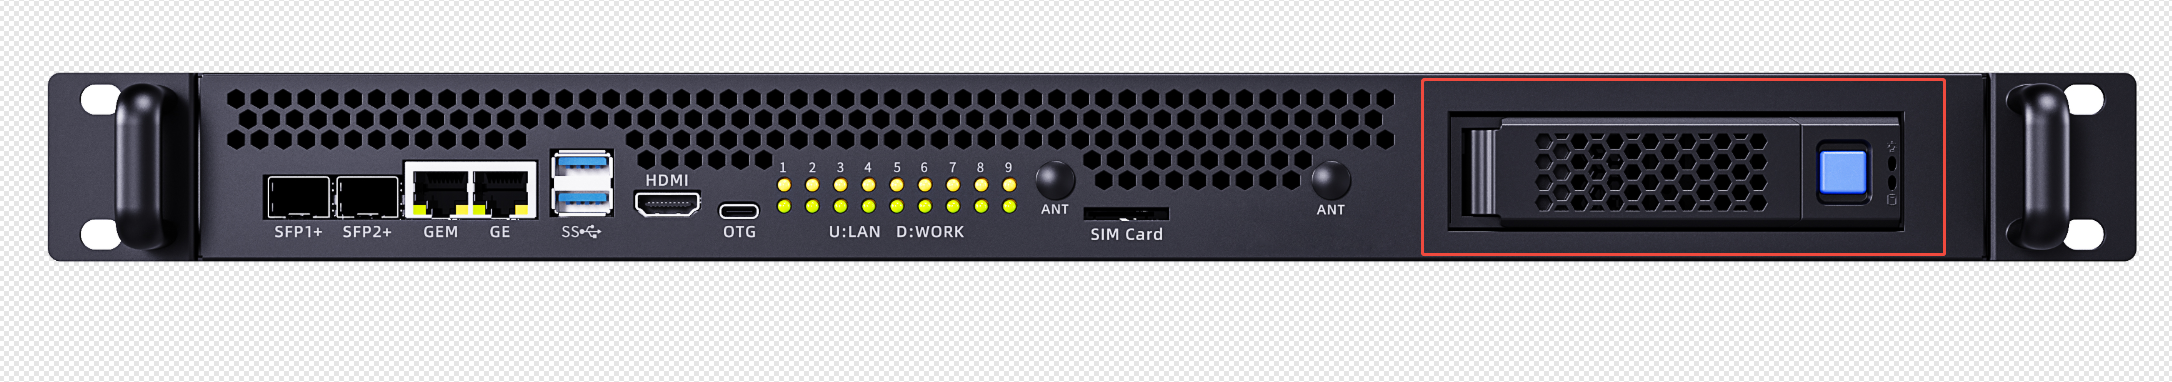
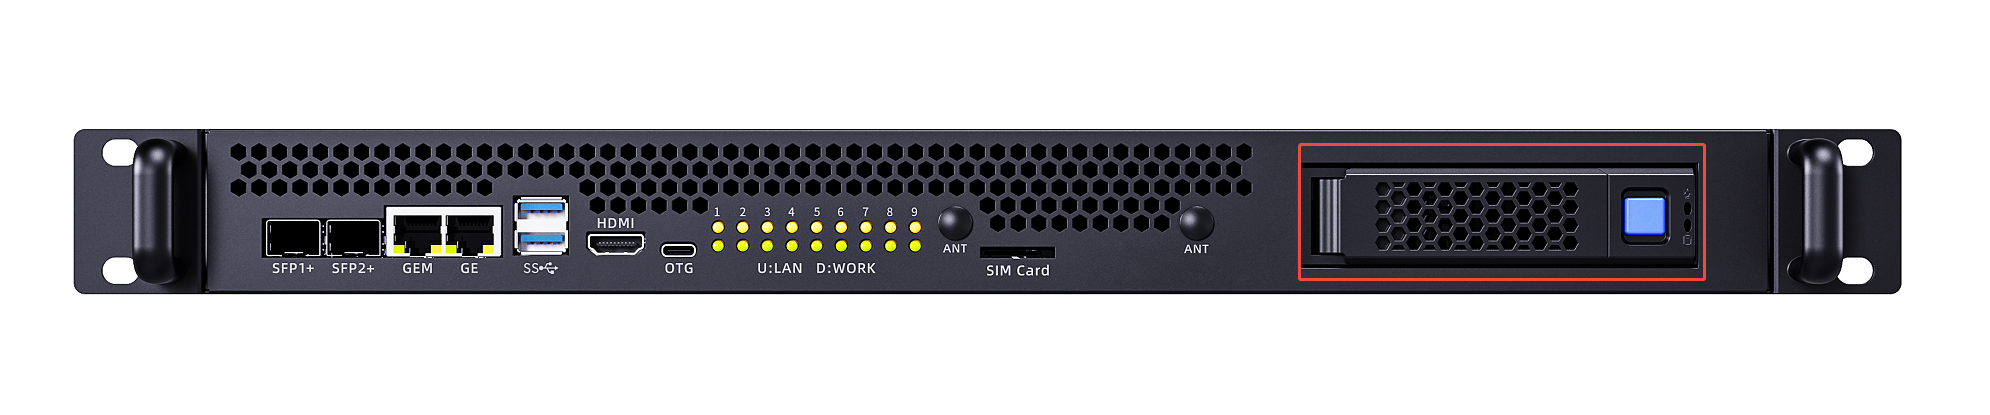
firefly products 73e96cd681608d3765940173d5635cfb80d89f0c

diff --git a/zh/服务器/CSA1-N8/specifications.md b/zh/服务器/CSA1-N8/specifications.md
@@ -1,22 +1,15 @@
 # 产品规格和组件
 
-## 技术规格
-环境规格
-
 ## 服务器规格
 
 | 指标项 | 规格 |
 | :--- | :--- |
 | **服务器形态** | 1U 机架式服务器 |
-| **计算节点型号** | 支持 10 路分布式计算节点 |
-| **显示接口** | 1080P VGA 接口 |
+| **计算节点型号** | 支持 8 路分布式计算节点 |
+| **显示接口** | 1080P HDMI 接口 |
 | **USB** | 2 个 USB 3.0 接口 |
-| **网络接口** | - 2 个 10Gbps SFP+ 共享网口<br/>- 2 个 10/100/1000Mbps RJ45 共享网口 |
-| **串行接口** | - 1 个 RS232 DB9 接口<br/>- 1 个 RS485 DB9 接口 |
-| **Console 接口** | 1 个用于调试的 RJ45 Console 接口 |
-| **灯和按键** | - 1 个 UID 按键灯<br/>- 1 个 POWER 按键灯<br/>- 10 个计算节点系统指示灯<br/>- 2 个 SFP+ 指示灯<br/>- 1 个交换机指示灯<br/>- 1 个 BMC 系统指示灯 |
-| **风扇** | 4 个冗余风扇 |
-| **电源** | 双路 550W AC 电源 |
+| **网络接口** | 2 × 10Gbps万兆网（SFP+）、2 × 千兆以太网（RJ45，管理网口 1 个，普通网口 1 个） |
+| **风扇** | 6 个冗余风扇 |
 | **系统管理** | - 适配 aBMC 管理系统（支持 Redfish、VNC、NTP、监控高级及虚拟媒体）<br/>- 1 个 10/100/1000Mbps RJ45 管理网口 |
 | **安全特性** | - 管理员密码<br/>- 故障告警<br/>- 应急 recovery 模式 |
 
@@ -24,24 +17,11 @@
 
 | 指标项 | 规格 |
 | :--- | :--- |
-| **服务器形态** | 1U 机架式服务器 |
-| **计算节点型号** | 支持 10 路分布式计算节点 |
-| **显示接口** | 1080P VGA 接口 |
-| **USB** | 2 个 USB 3.0 接口 |
-| **网络接口** | - 2 个 10Gbps SFP+ 共享网口<br/>- 2 个 10/100/1000Mbps RJ45 共享网口 |
-| **串行接口** | - 1 个 RS232 DB9 接口<br/>- 1 个 RS485 DB9 接口 |
-| **Console 接口** | 1 个用于调试的 RJ45 Console 接口 |
-| **灯和按键** | - 1 个 UID 按键灯<br/>- 1 个 POWER 按键灯<br/>-  10 个计算节点系统指示灯<br/>- 2 个 SFP+ 指示灯<br/>- 1 个交换机指示灯<br/>- 1 个 BMC 系统指示灯 |
-| **风扇** | 4 个冗余风扇 |
-| **电源** | 2 个单路 550W AC 电源 |
-| **系统管理** | - 适配 aBMC 管理系统（支持 Redfish、VNC、NTP、监控高级及虚拟媒体）<br/>- 1 个 10/100/1000Mbps RJ45 管理网口 |
-| **安全特性** | - 管理员密码<br/>-  故障告警<br/>-  应急 recovery 模式 |
 | **温度** | - 工作温度：5℃～40℃（41℉～104℉）<br/>-  存储温度（24H）：-40℃～+65℃<br/>-  存储温度（3个月以内）：-30℃～+60℃（-22℉～+140℉）<br/>-  存储温度（6个月以内）：-15℃～+45℃（5℉～113℉）<br/>-  存储温度（1年以内）：-10℃～+35℃（14℉～95℉）<br/>-  最大温度变化率：20℃（36℉）/小时、5℃（9℉）/15分钟 |
 | **相对湿度（RH，无冷凝）** | - 工作湿度：8%～90%<br/>-  存储湿度（3个月以内）：8%～85%<br/>-  存储湿度（6个月以内）：8%～80%<br/>-  存储湿度（1年以内）：20%～75%<br/>-  最大湿度变化率：20%/小时 |
 
 
-
-<Callout title="NTP 网络要求" type="info">
+<Callout title="硬盘存储时间要求" type="info">
 由于SSD硬盘和机械硬盘（包括NL-SAS、SAS、SATA）存储原理的限制，不能在下电状态下长期保存，若超过最长存储时间，可能导致数据丢失或者硬盘故障。在满足存储温度与存储湿度的条件下，硬盘的存储时间要求如下：
 * SSD硬盘最长存储时间：
     * 下电状态且未存储数据：12个月
@@ -50,17 +30,16 @@
     * 未打开包装或已打开包装且为下电状态：6个月
 最长存储时间是依据硬盘厂商提供的硬盘下电存放时间规格确定的。
 </Callout>
-
-
+ 
 
 ## 物理规格
 
 | 指标项 | 规格 |
 | :--- | :--- |
-| **尺寸（高×宽×深）** | 机箱：44.4 mm（1U）× 417.3 mm × 490 mm |
+| **尺寸（高×宽×深）** | 机箱：44.4mm (1U)× 417.3mm × 490.0mm |
 | **安装尺寸要求** | 可安装在满足 IEC 297 标准的通用机柜中：<br/>- 宽 19 英寸<br/>- 深 800 mm 及以上<br/><br/>滑道的安装要求如下：<br/>- 可伸缩滑道：机柜前后方孔条的距离范围为 543.5 mm ～ 848.5 mm |
-| **满配重量** | - 净重：6.7 kg<br/>- 包装材料重量：8.9 kg |
-| **能耗** | 整机因搭载的计算单元数量和种类不同，能耗存在差异。以下为参考值：<br/>- 典型能耗：300 W<br/>- 最大能耗：450 W |
+| **满配重量** | - 净重：6.7kg<br/>- 包装材料重量：8.9kg |
+| **能耗** | 整机因搭载的计算单元数量和种类不同，能耗存在差异。以下为参考值：<br/>- 待机能耗：150 W<br/>- 最大能耗：450 W |
 | **电源** | - 电源模块不支持热插拔<br/>- 服务器连接的外部电源空气开关电流规格推荐如下：<br/>&nbsp;&nbsp;- 交流电源：32 A<br/>&nbsp;&nbsp;- 直流电源：63 A<br/>- 电源功率应大于最大能耗，并保留不少于 50 W 的余量 |
 
 
@@ -68,47 +47,36 @@
 ### 拓扑示意图
 
 #### 硬件逻辑结构图
-图5为服务器内部的硬件逻辑结构图，清晰展示了子板、BMC、存储和内部网络交换机等硬件连接关系。表6为图5中的符号说明：
-| 符号 | 名称 | 说明 |
-| :--- | :--- | :--- |
-| Layer 2 switch | 内部二层交换机 | 不支持 VLAN 划分、网络聚合和 QoS 等功能 |
+| 符号 | 名称 |
+| :--- | :--- |
+| pci_net | 以太网卡（速度 1 Gbps） |
+| Layer 2 switch | 内部二层交换机 |
 
 ![perspective view](../../../servers_img/CSA1-N8/hw_logical_topology.png)
 
 #### 网络拓扑图
-根据硬件结构逻辑图可知，阵列式服务器中集成的ARM核心板与BMC是通过两个二层交换机实现网络互联的，
-
-![perspective view](../../../servers_img/CSA1-N8/default_network_topology.png)
+根据硬件结构逻辑图可知，阵列式服务器中集成的ARM核心板与BMC是通过一个二层交换机实现网络互联的，**具体的网络拓扑图联系工程师获取**。。
 
 ## 组件
 ### 前面板按键及指示灯
 
 | 标识 | 指示灯/按钮 | 状态说明 |
 | :--- | :--- | :--- |
-| 1-8,M | 计算节点状态指示灯 | - 绿色（常亮）：表示计算节点已经正常开机。<br/>- 熄灭：表示计算节点未上电。 |
-| 1-8,M | 网络状态指示灯 | - 黄色（闪烁）：表示子板正在通信。<br/>- 熄灭：子板未通信。 |
-| | OTG Type-C | 可使用 U 盘对 BMC 进行 OTG 升级。 |
-
-
+| 1-8,M | 计算节点状态指示灯和BMC状态指示灯 | - 绿色（常亮）：表示节点已经正常开机。<br/>- 熄灭：表示节点未上电。 |
+| | OTG USB（下方） | 可使用 U 盘对 BMC 进行 OTG 升级。 |
 
 ### 网络接口
 
 | 标识 | 接口名称 | 说明 |
 | :--- | :--- | :--- |
-| SFP+1 / SFP+2 | SFP+ 端口 | - 万兆光口默认速率为 10 Gbps 自适应 |
-| GE  | RJ45 | - 千兆以太网口，1000/100/10 Mbps 自适应。 |
-| GEM | RJ45 | - 用作 BMC 管理网络。<br/>- 1000/100/10 Mbps 自适应。 |
-
-> 表 8
-
+| SFP+1 / SFP+2 | SFP+ 端口 | - 万兆光口默认速率为 10 Gbps。<br/>- 如果是千兆网络的环境下，需手动切换到 1 Gbps。 |
+| GE1 / GE2 | RJ45 | - 千兆以太网口，1000/100/10 Mbps 自适应。 |
+| MGNT | RJ45 | - 用作 BMC 管理网络。<br/>- 1000/100/10 Mbps 自适应。 |
 ### 显示接口
 
 | 标识 | 接口名称 | 说明 |
 | :--- | :--- | :--- |
-| HIDMI | HIDMI 接口 | - BMC 直出 HIDMI <br/>- 分辨率为 1080P。 |
-
-> 表 10
-
+| VGA | VGA 接口 | - BMC 直出 VGA。<br/>- 分辨率为 1080P。 |
 ### 硬盘及指示灯
 
 #### 硬盘位置
@@ -135,10 +103,11 @@
         </ul>
       </td>
       <td>6（SATA硬盘）</td>
-      <td>USB 转 SATA</td>
+      <td>BMC PCIE 转 SATA</td>
     </tr>
   </tbody>
 </table>
+
 
 
 #### SATA硬盘指示灯
